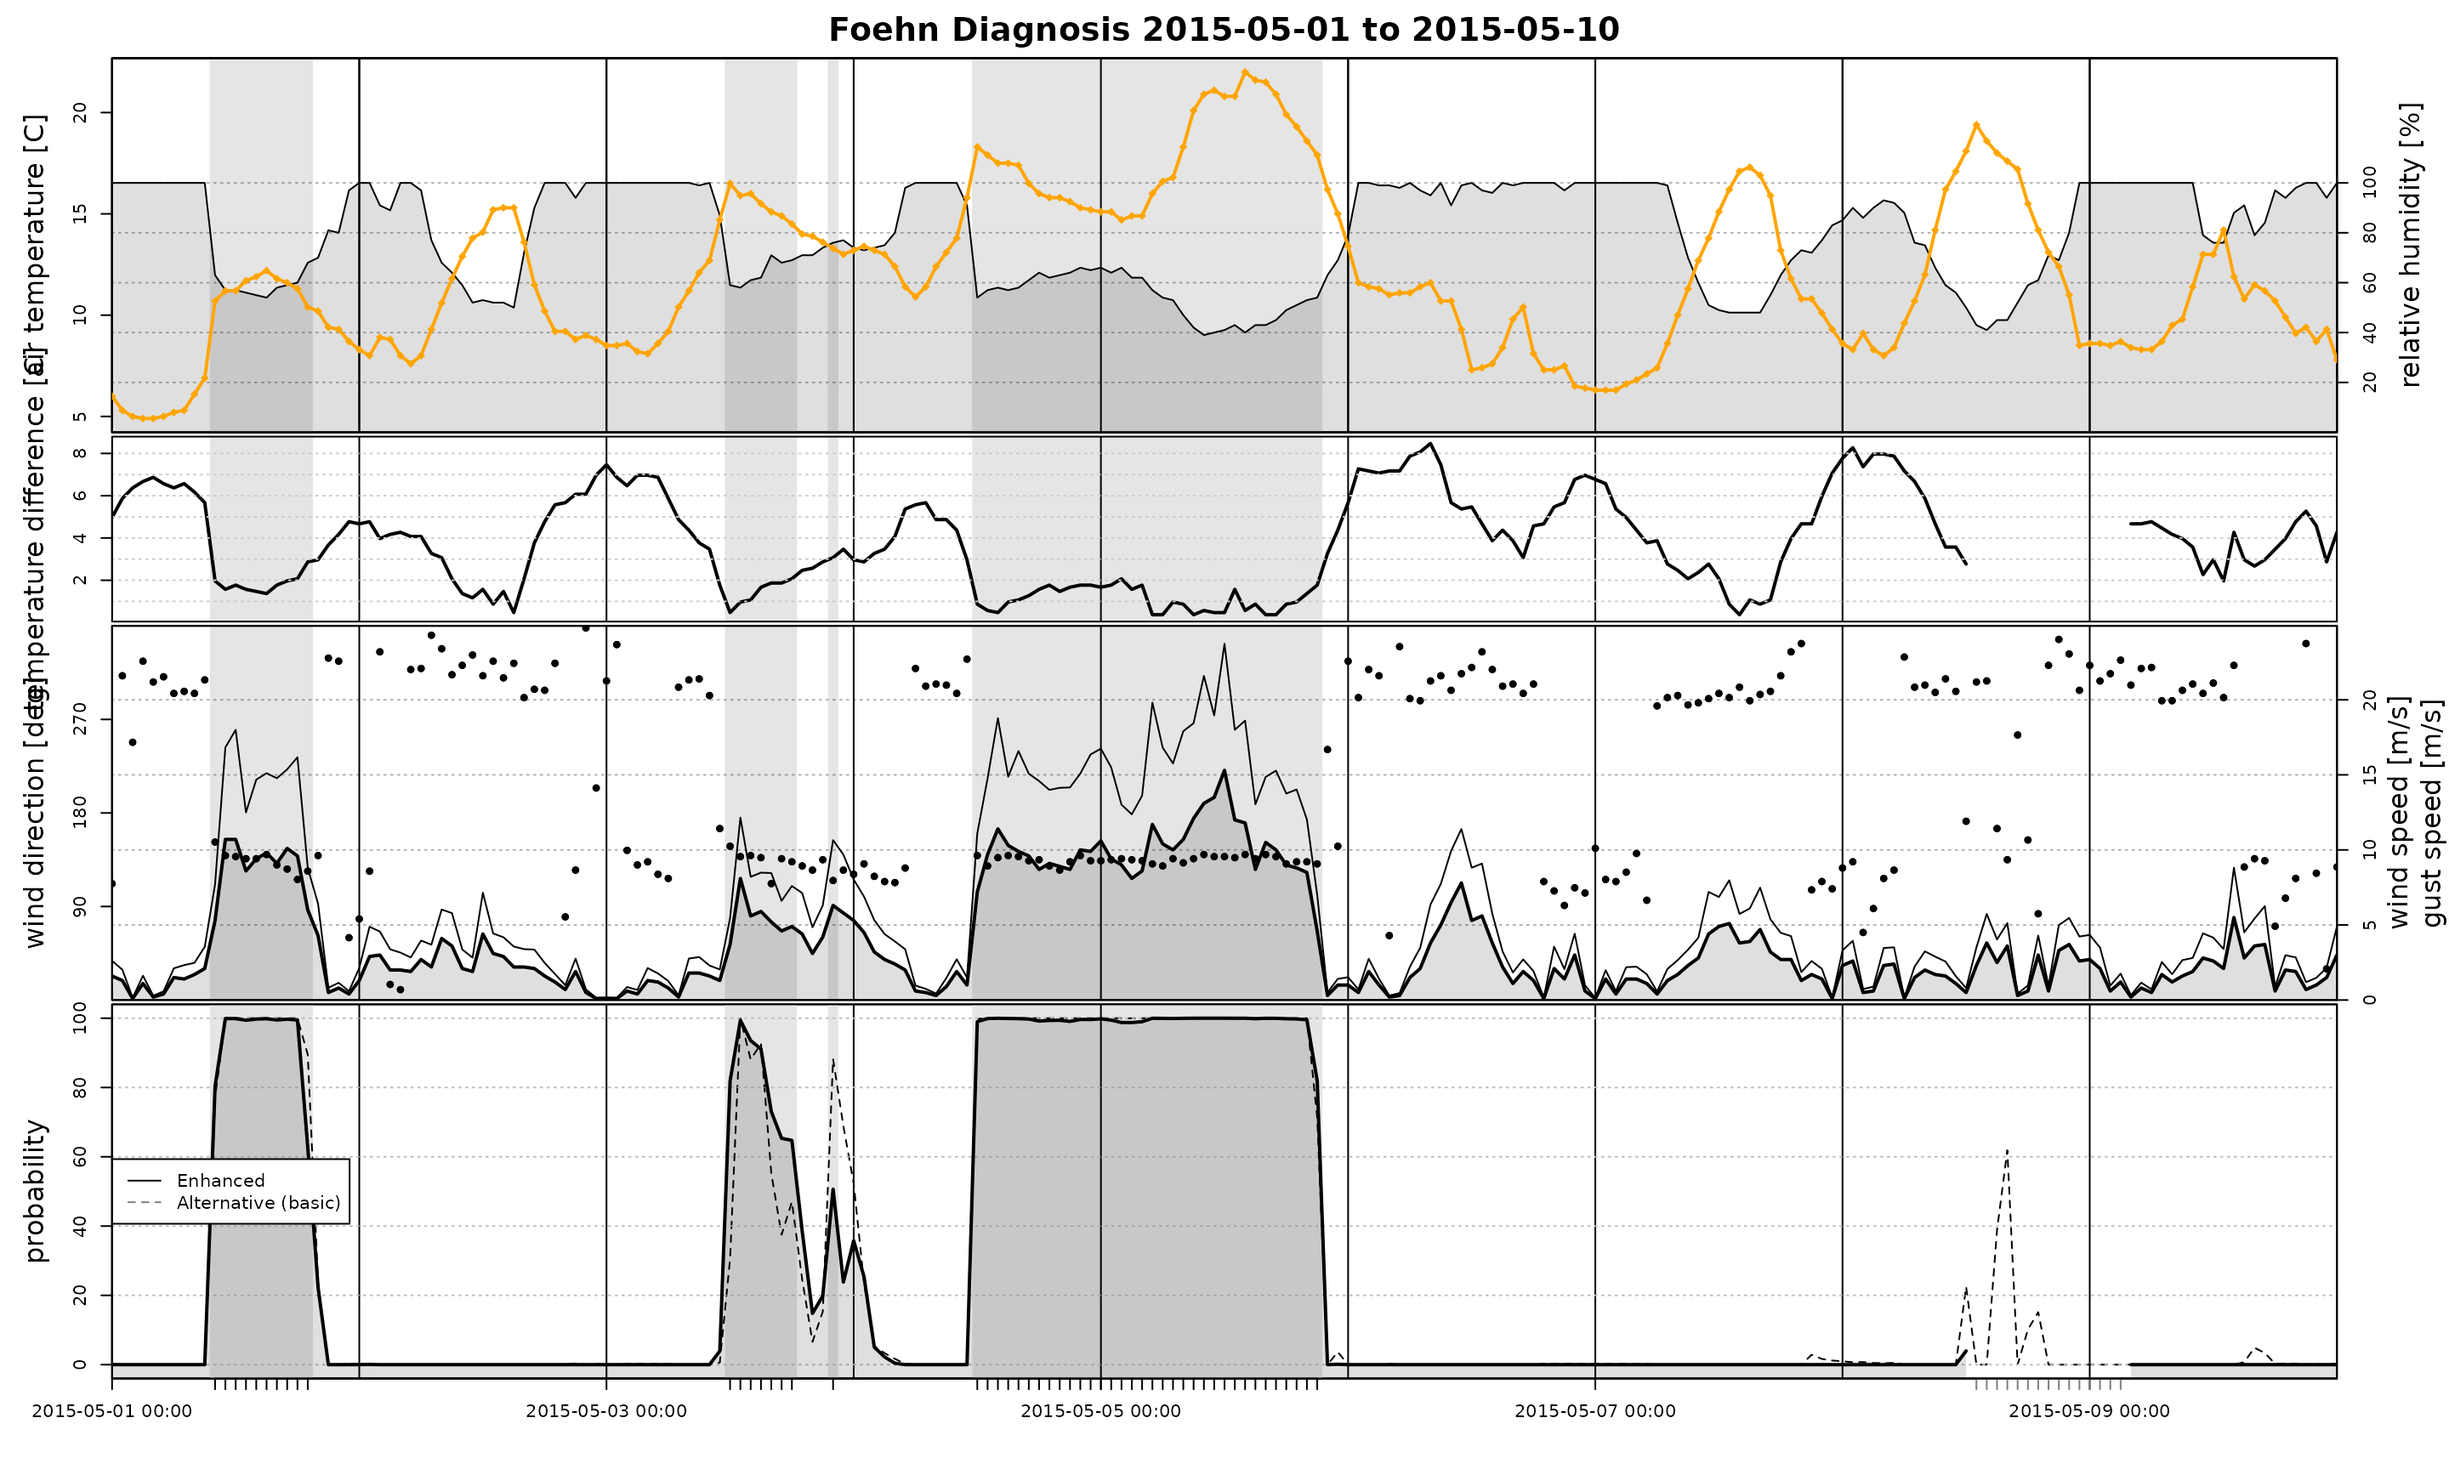
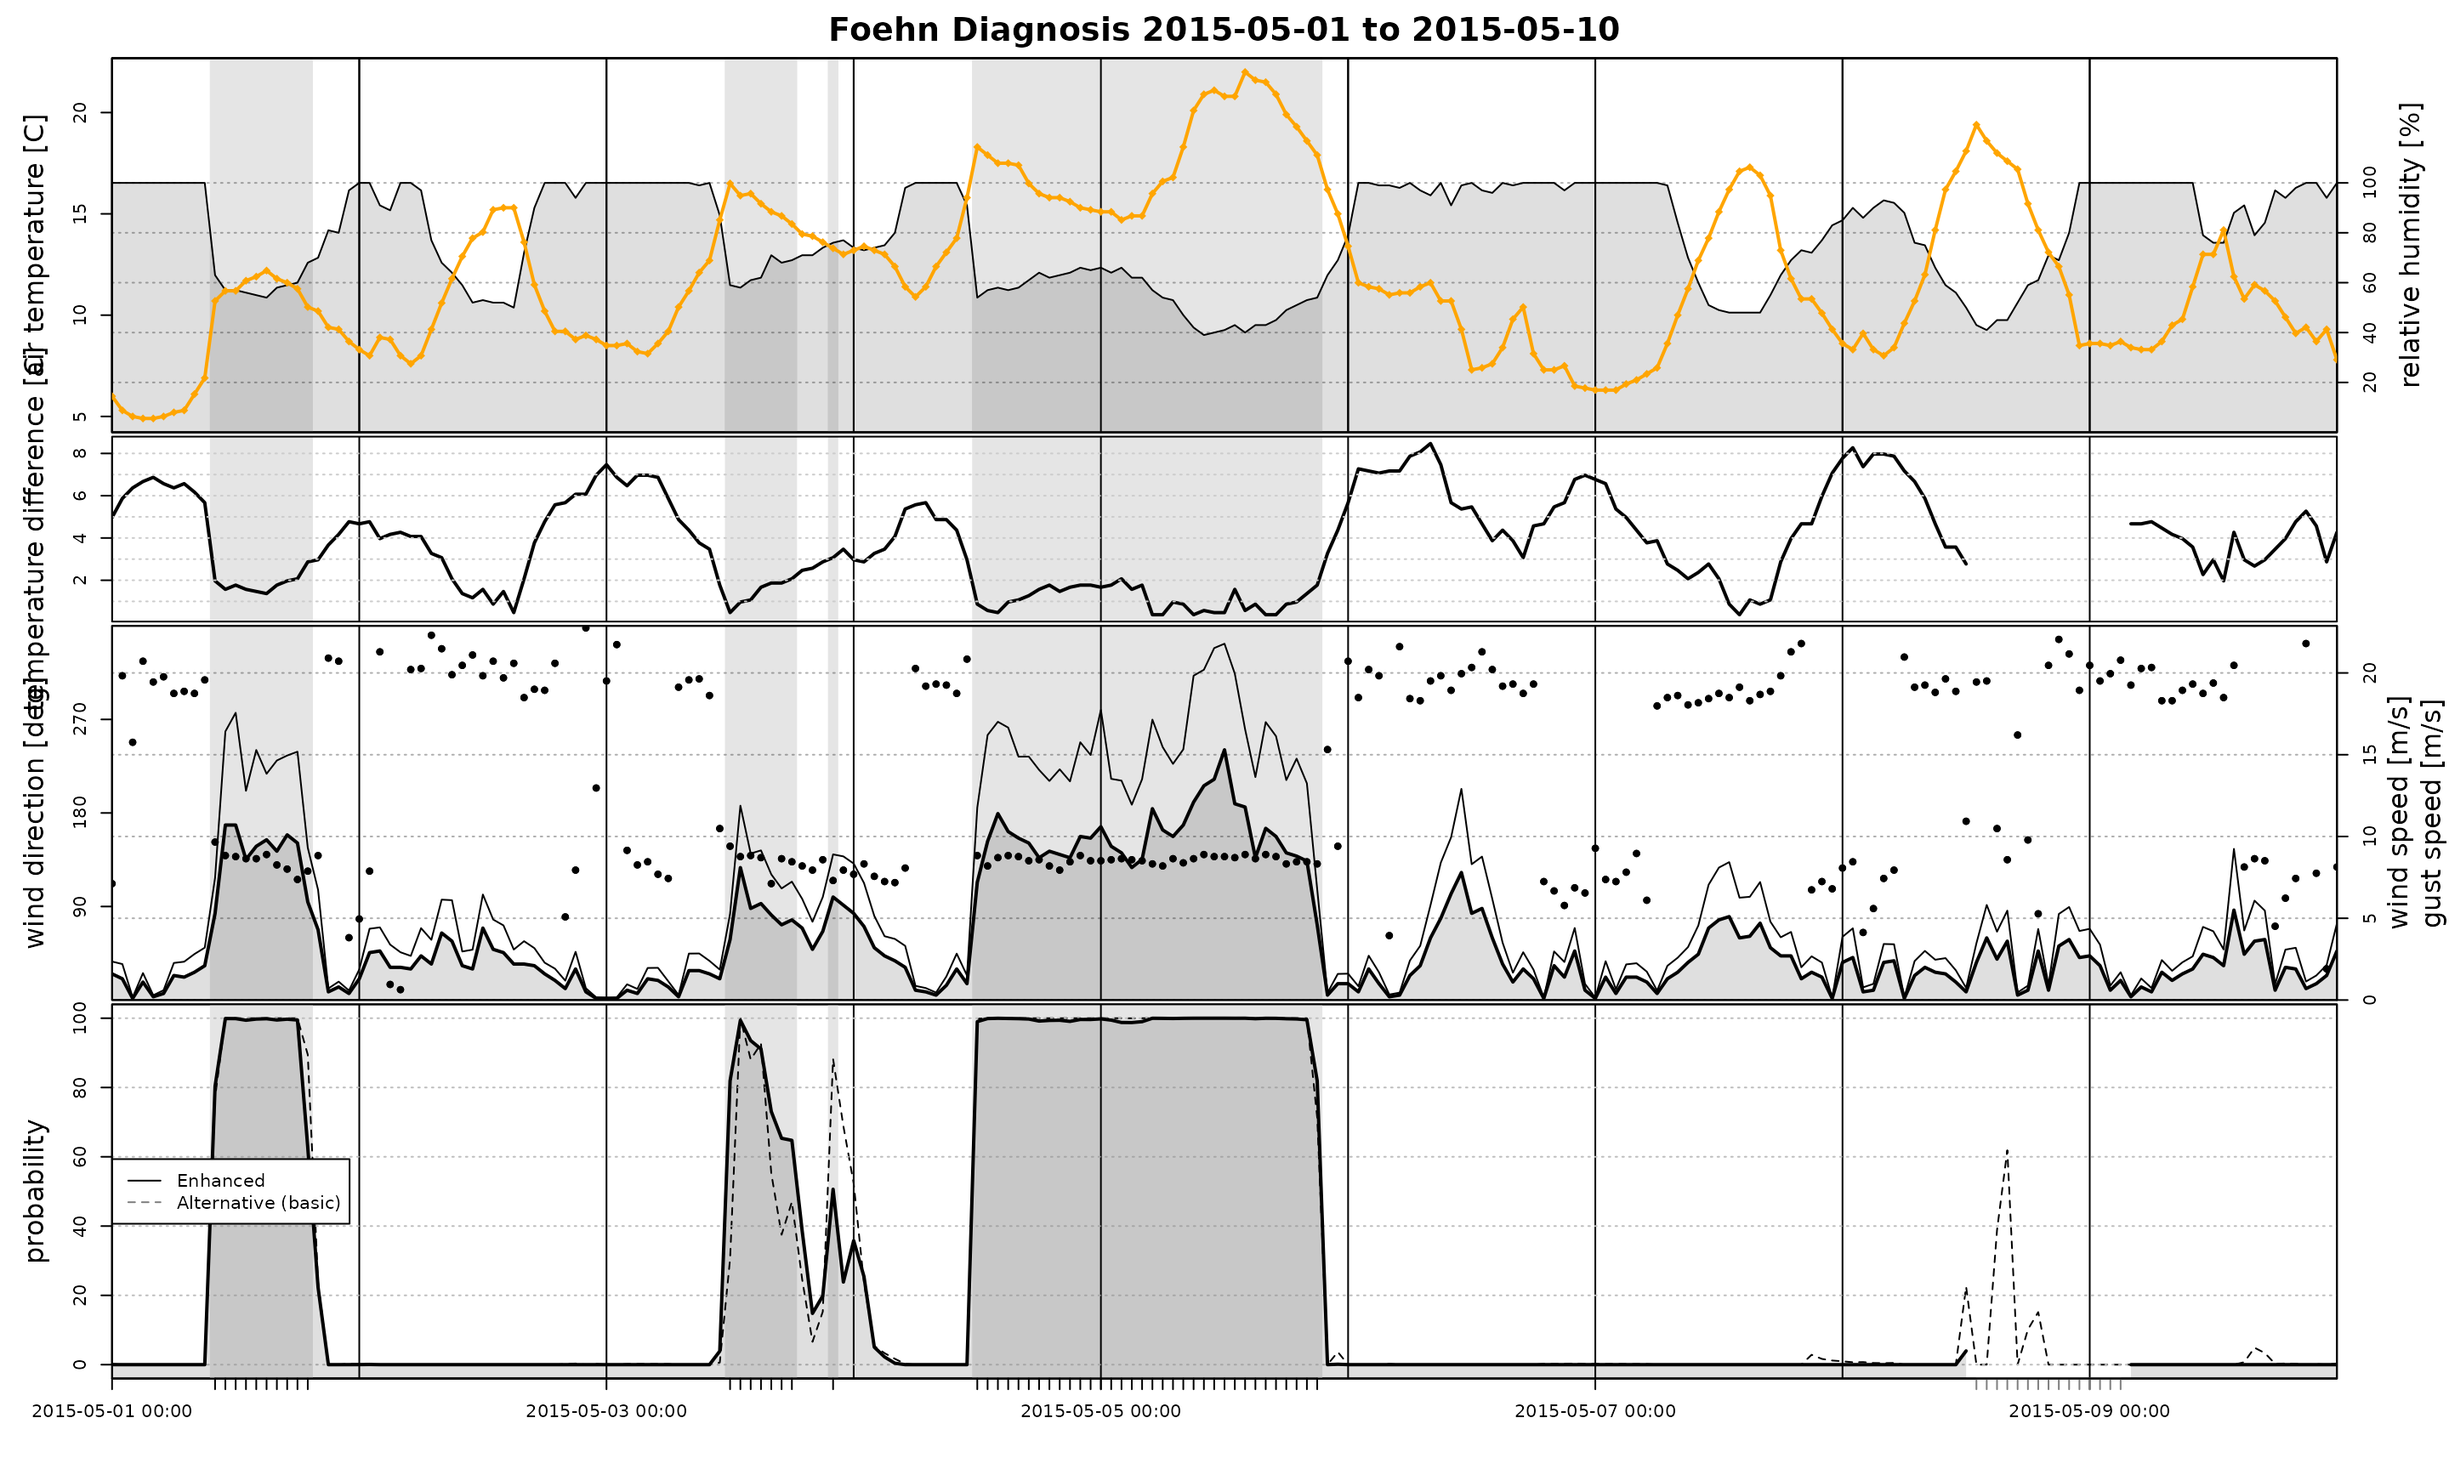
fix: Small bugfixin tsplot()

diff --git a/docs/articles/ellboegen.html b/docs/articles/ellboegen.html
@@ -139,8 +139,8 @@
 </h2>
 <p>The “Tyrolean” data set provides hourly observations from two stations, namely “Ellbögen” and “Sattelberg” located in Tyrol, Austria.</p>
 <p>Ellbögen is our target station (valley site) located in the Wipp Valley, a north-south oriented alpine valley on the northern side of the European Alps. To the north the Wipp Valley opens into the Inn Valley (close to Innsbruck, the capitol of Tyrol), to the south the valley ends at a narrow gap in the main Alpine ridge called Brennerpass (<span class="math inline">\(1370~m\)</span>; the pass between Austria and Italy) flanked by mountains (<span class="math inline">\(&gt;2100~m\)</span>). The Wipp Valley is one of the lowest and most distinct cuts trough the Alpine mountain range and well known for south foehn (north of the Alps). Station Sattelberg serves as crest station and provides observations of the upstream air mass during south foehn events. The station is located on top of the mountain to the west of the pass.</p>
-<div id="htmlwidget-fa9a07b8f08576166ba2" style="width:100%;height:480px;" class="leaflet html-widget "></div>
-<script type="application/json" data-for="htmlwidget-fa9a07b8f08576166ba2">{"x":{"options":{"crs":{"crsClass":"L.CRS.EPSG3857","code":null,"proj4def":null,"projectedBounds":null,"options":{}}},"calls":[{"method":"addTiles","args":["https://{s}.tile.openstreetmap.org/{z}/{x}/{y}.png",null,null,{"minZoom":0,"maxZoom":18,"tileSize":256,"subdomains":"abc","errorTileUrl":"","tms":false,"noWrap":false,"zoomOffset":0,"zoomReverse":false,"opacity":1,"zIndex":1,"detectRetina":false,"attribution":"&copy; <a href=\"https://openstreetmap.org\">OpenStreetMap<\/a> contributors, <a href=\"https://creativecommons.org/licenses/by-sa/2.0/\">CC-BY-SA<\/a>"}]},{"method":"addPopups","args":[47.18694,11.42889,"Station Ellbögen, 1080 m a.m.s.l.",null,null,{"maxWidth":300,"minWidth":50,"autoPan":true,"keepInView":false,"closeButton":true,"className":""}]},{"method":"addPopups","args":[47.01083,11.47889,"Station Sattelberg, 2107 m a.m.s.l.",null,null,{"maxWidth":300,"minWidth":50,"autoPan":true,"keepInView":false,"closeButton":true,"className":""}]},{"method":"addProviderTiles","args":["OpenTopoMap",null,null,{"errorTileUrl":"","noWrap":false,"detectRetina":false}]}],"setView":[[47.098885,11.45389],10.5,[]],"limits":{"lat":[47.01083,47.18694],"lng":[11.42889,11.47889]}},"evals":[],"jsHooks":[]}</script>
+<div id="htmlwidget-154bfcdde3e83c4d716f" style="width:100%;height:480px;" class="leaflet html-widget "></div>
+<script type="application/json" data-for="htmlwidget-154bfcdde3e83c4d716f">{"x":{"options":{"crs":{"crsClass":"L.CRS.EPSG3857","code":null,"proj4def":null,"projectedBounds":null,"options":{}}},"calls":[{"method":"addTiles","args":["https://{s}.tile.openstreetmap.org/{z}/{x}/{y}.png",null,null,{"minZoom":0,"maxZoom":18,"tileSize":256,"subdomains":"abc","errorTileUrl":"","tms":false,"noWrap":false,"zoomOffset":0,"zoomReverse":false,"opacity":1,"zIndex":1,"detectRetina":false,"attribution":"&copy; <a href=\"https://openstreetmap.org\">OpenStreetMap<\/a> contributors, <a href=\"https://creativecommons.org/licenses/by-sa/2.0/\">CC-BY-SA<\/a>"}]},{"method":"addPopups","args":[47.18694,11.42889,"Station Ellbögen, 1080 m a.m.s.l.",null,null,{"maxWidth":300,"minWidth":50,"autoPan":true,"keepInView":false,"closeButton":true,"className":""}]},{"method":"addPopups","args":[47.01083,11.47889,"Station Sattelberg, 2107 m a.m.s.l.",null,null,{"maxWidth":300,"minWidth":50,"autoPan":true,"keepInView":false,"closeButton":true,"className":""}]},{"method":"addProviderTiles","args":["OpenTopoMap",null,null,{"errorTileUrl":"","noWrap":false,"detectRetina":false}]}],"setView":[[47.098885,11.45389],10.5,[]],"limits":{"lat":[47.01083,47.18694],"lng":[11.42889,11.47889]}},"evals":[],"jsHooks":[]}</script>
 </div>
 <div class="section level2">
 <h2 id="loading-the-data-set">Loading the Data Set<a class="anchor" aria-label="anchor" href="#loading-the-data-set"></a>
@@ -252,7 +252,7 @@
 <span><span class="co">## </span></span>
 <span><span class="co">## Log-likelihood: -55044.0, 7 effective degrees of freedom</span></span>
 <span><span class="co">## Corresponding AIC = 110101.9, BIC = 110158.6</span></span>
-<span><span class="co">## Time required for model estimation: 2.2 seconds</span></span>
+<span><span class="co">## Time required for model estimation: 2.7 seconds</span></span>
 <span><span class="co">## </span></span>
 <span><span class="co">## Cluster separation (ratios close to 1 indicate</span></span>
 <span><span class="co">## well separated clusters):</span></span>

diff --git a/docs/articles/viejas.html b/docs/articles/viejas.html
@@ -139,8 +139,8 @@
 </h2>
 <p>The “Californian” data set consists of hourly meteorological observations from station “Viejas Casino and Ranch” and station “Lucky Five Ranch” located in South California.</p>
 <p>Viejas is located at the foot of the westerly slope of the Sierra Nevada mountain range and exhibits strong easterly winds during downslope wind situations. The Lucky Five Ranch is located northeast of and provides information about the upstream air mass for the classification algorithm.</p>
-<div id="htmlwidget-29f76a46c4a728903aa6" style="width:100%;height:480px;" class="leaflet html-widget "></div>
-<script type="application/json" data-for="htmlwidget-29f76a46c4a728903aa6">{"x":{"options":{"crs":{"crsClass":"L.CRS.EPSG3857","code":null,"proj4def":null,"projectedBounds":null,"options":{}}},"calls":[{"method":"addTiles","args":["https://{s}.tile.openstreetmap.org/{z}/{x}/{y}.png",null,null,{"minZoom":0,"maxZoom":18,"tileSize":256,"subdomains":"abc","errorTileUrl":"","tms":false,"noWrap":false,"zoomOffset":0,"zoomReverse":false,"opacity":1,"zIndex":1,"detectRetina":false,"attribution":"&copy; <a href=\"https://openstreetmap.org\">OpenStreetMap<\/a> contributors, <a href=\"https://creativecommons.org/licenses/by-sa/2.0/\">CC-BY-SA<\/a>"}]},{"method":"addPopups","args":[32.84559,-116.70437,"Station Viejas, 715 m a.m.s.l.",null,null,{"maxWidth":300,"minWidth":50,"autoPan":true,"keepInView":false,"closeButton":true,"className":""}]},{"method":"addPopups","args":[32.9331,-116.528,"Station Lucky Five Ranch, 1445 m a.m.s.l.",null,null,{"maxWidth":300,"minWidth":50,"autoPan":true,"keepInView":false,"closeButton":true,"className":""}]},{"method":"addProviderTiles","args":["OpenTopoMap",null,null,{"errorTileUrl":"","noWrap":false,"detectRetina":false}]}],"setView":[[32.889345,-116.616185],10.5,[]],"limits":{"lat":[32.84559,32.9331],"lng":[-116.70437,-116.528]}},"evals":[],"jsHooks":[]}</script>
+<div id="htmlwidget-f69812d737205c377b62" style="width:100%;height:480px;" class="leaflet html-widget "></div>
+<script type="application/json" data-for="htmlwidget-f69812d737205c377b62">{"x":{"options":{"crs":{"crsClass":"L.CRS.EPSG3857","code":null,"proj4def":null,"projectedBounds":null,"options":{}}},"calls":[{"method":"addTiles","args":["https://{s}.tile.openstreetmap.org/{z}/{x}/{y}.png",null,null,{"minZoom":0,"maxZoom":18,"tileSize":256,"subdomains":"abc","errorTileUrl":"","tms":false,"noWrap":false,"zoomOffset":0,"zoomReverse":false,"opacity":1,"zIndex":1,"detectRetina":false,"attribution":"&copy; <a href=\"https://openstreetmap.org\">OpenStreetMap<\/a> contributors, <a href=\"https://creativecommons.org/licenses/by-sa/2.0/\">CC-BY-SA<\/a>"}]},{"method":"addPopups","args":[32.84559,-116.70437,"Station Viejas, 715 m a.m.s.l.",null,null,{"maxWidth":300,"minWidth":50,"autoPan":true,"keepInView":false,"closeButton":true,"className":""}]},{"method":"addPopups","args":[32.9331,-116.528,"Station Lucky Five Ranch, 1445 m a.m.s.l.",null,null,{"maxWidth":300,"minWidth":50,"autoPan":true,"keepInView":false,"closeButton":true,"className":""}]},{"method":"addProviderTiles","args":["OpenTopoMap",null,null,{"errorTileUrl":"","noWrap":false,"detectRetina":false}]}],"setView":[[32.889345,-116.616185],10.5,[]],"limits":{"lat":[32.84559,32.9331],"lng":[-116.70437,-116.528]}},"evals":[],"jsHooks":[]}</script>
 </div>
 <div class="section level2">
 <h2 id="loading-the-data-set">Loading the Data Set<a class="anchor" aria-label="anchor" href="#loading-the-data-set"></a>
@@ -239,7 +239,7 @@
 <span><span class="co">## </span></span>
 <span><span class="co">## Log-likelihood: -86157.2, 6 effective degrees of freedom</span></span>
 <span><span class="co">## Corresponding AIC = 172326.5, BIC = 172376.6</span></span>
-<span><span class="co">## Time required for model estimation: 4.2 seconds</span></span>
+<span><span class="co">## Time required for model estimation: 5.4 seconds</span></span>
 <span><span class="co">## </span></span>
 <span><span class="co">## Cluster separation (ratios close to 1 indicate</span></span>
 <span><span class="co">## well separated clusters):</span></span>

diff --git a/docs/articles/tsplot.html b/docs/articles/tsplot.html
@@ -148,9 +148,9 @@
 <span><span class="co">## 2006-01-01 02:00:00 268 0.3 100 -1.8      186     12.5      100    -8.0   4.07</span></span>
 <span><span class="co">## 2006-01-01 03:00:00 115 5.2  79  0.9      181     11.3      100    -7.4   1.97</span></span>
 <span><span class="co">##                           ffx crest_ffx</span></span>
-<span><span class="co">## 2006-01-01 01:00:00 0.9230240  16.96014</span></span>
-<span><span class="co">## 2006-01-01 02:00:00 0.4903233  29.24962</span></span>
-<span><span class="co">## 2006-01-01 03:00:00 7.4799944  27.61689</span></span></code></pre>
+<span><span class="co">## 2006-01-01 01:00:00 0.9996613  22.45754</span></span>
+<span><span class="co">## 2006-01-01 02:00:00 0.4265437  21.33575</span></span>
+<span><span class="co">## 2006-01-01 03:00:00 8.0513485  26.16924</span></span></code></pre>
 <div class="sourceCode" id="cb3"><pre class="downlit sourceCode r">
 <code class="sourceCode R"><span><span class="co"># Estimate a foehnix classification model</span></span>
 <span><span class="va">filter</span> <span class="op">&lt;-</span> <span class="fu"><a href="https://rdrr.io/r/base/list.html" class="external-link">list</a></span><span class="op">(</span>dd <span class="op">=</span> <span class="fu"><a href="https://rdrr.io/r/base/c.html" class="external-link">c</a></span><span class="op">(</span><span class="fl">43</span>, <span class="fl">223</span><span class="op">)</span>, crest_dd <span class="op">=</span> <span class="fu"><a href="https://rdrr.io/r/base/c.html" class="external-link">c</a></span><span class="op">(</span><span class="fl">90</span>, <span class="fl">270</span><span class="op">)</span><span class="op">)</span></span>

diff --git a/docs/articles/foehnix.html b/docs/articles/foehnix.html
@@ -228,7 +228,7 @@
 <span><span class="co">## </span></span>
 <span><span class="co">## Log-likelihood: -55763.8, 6 effective degrees of freedom</span></span>
 <span><span class="co">## Corresponding AIC = 111539.7, BIC = 111588.3</span></span>
-<span><span class="co">## Time required for model estimation: 2.3 seconds</span></span>
+<span><span class="co">## Time required for model estimation: 2.9 seconds</span></span>
 <span><span class="co">## </span></span>
 <span><span class="co">## Use summary(object, detailed = TRUE) to get additional test statistics.</span></span></code></pre>
 <p>The <code>coef</code> or <code>coefficients</code> method returns the estimated coefficients.</p>
@@ -267,7 +267,7 @@
 <span><span class="co">## </span></span>
 <span><span class="co">## Log-likelihood: -55763.8, 6 effective degrees of freedom</span></span>
 <span><span class="co">## Corresponding AIC = 111539.7, BIC = 111588.3</span></span>
-<span><span class="co">## Time required for model estimation: 2.3 seconds</span></span>
+<span><span class="co">## Time required for model estimation: 2.9 seconds</span></span>
 <span><span class="co">## </span></span>
 <span><span class="co">## Cluster separation (ratios close to 1 indicate</span></span>
 <span><span class="co">## well separated clusters):</span></span>

diff --git a/docs/articles/inference.html b/docs/articles/inference.html
@@ -155,7 +155,7 @@
 <span><span class="co">## </span></span>
 <span><span class="co">## Log-likelihood: -221461.2, 7 effective degrees of freedom</span></span>
 <span><span class="co">## Corresponding AIC = 442936.3, BIC = 443002.5</span></span>
-<span><span class="co">## Time required for model estimation: 15.3 seconds</span></span>
+<span><span class="co">## Time required for model estimation: 18.9 seconds</span></span>
 <span><span class="co">## </span></span>
 <span><span class="co">## Cluster separation (ratios close to 1 indicate</span></span>
 <span><span class="co">## well separated clusters):</span></span>

diff --git a/NEWS.md b/NEWS.md
@@ -13,6 +13,11 @@
 * Windrose: changed argument `mfcol` to `ncol`, adjusted handling of
     labels/legends.
 * Updated a series of _R_ documentation pages.
+* See foehnix `0.1-6`, `tsplot()` fix: Should be implemented everywhere?
+
+# foehnix 0.1-6 (June 2023; bugfixes)
+
+* `tsplot()` for temperature difference can now deal with all-missing (shows NO DATA)
 
 # foehnix 0.1-5 (Mai 2023; bugfixes)
 
